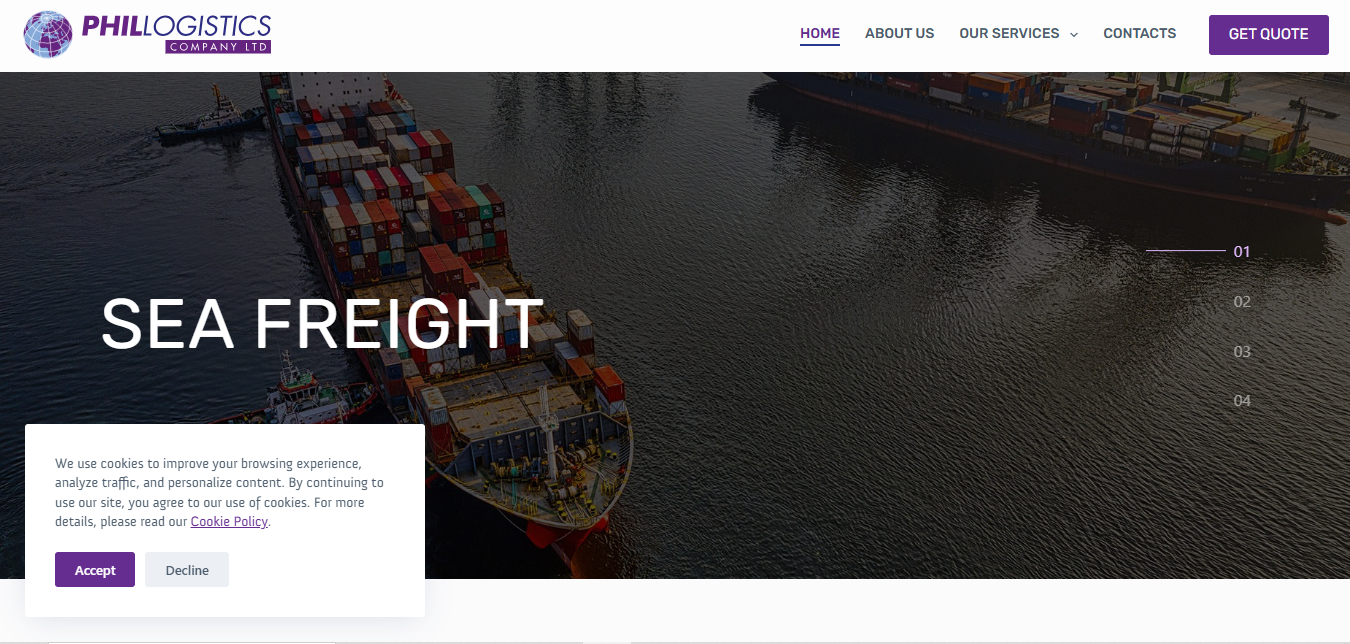
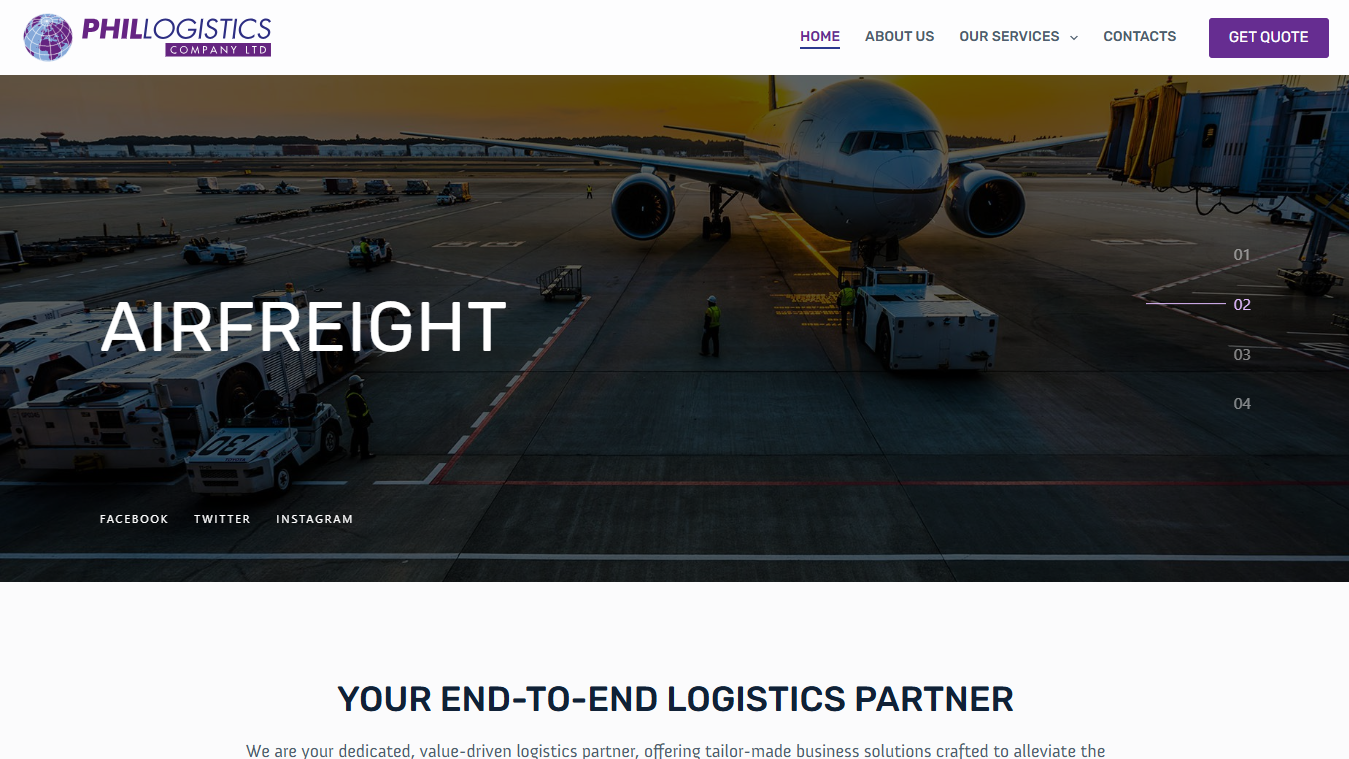
Update 'Work'

diff --git a/index.html b/index.html
@@ -201,7 +201,7 @@
 
           <div class="work scroll-in">
             <div class="work-image">
-              <img src="images/donga-screenshot.jpg" alt="Donga Carspa" />
+              <img src="images/donga-shot.png" alt="Donga Carspa" />
             </div>
             <div class="work-content-container">
               <div class="work-content">
